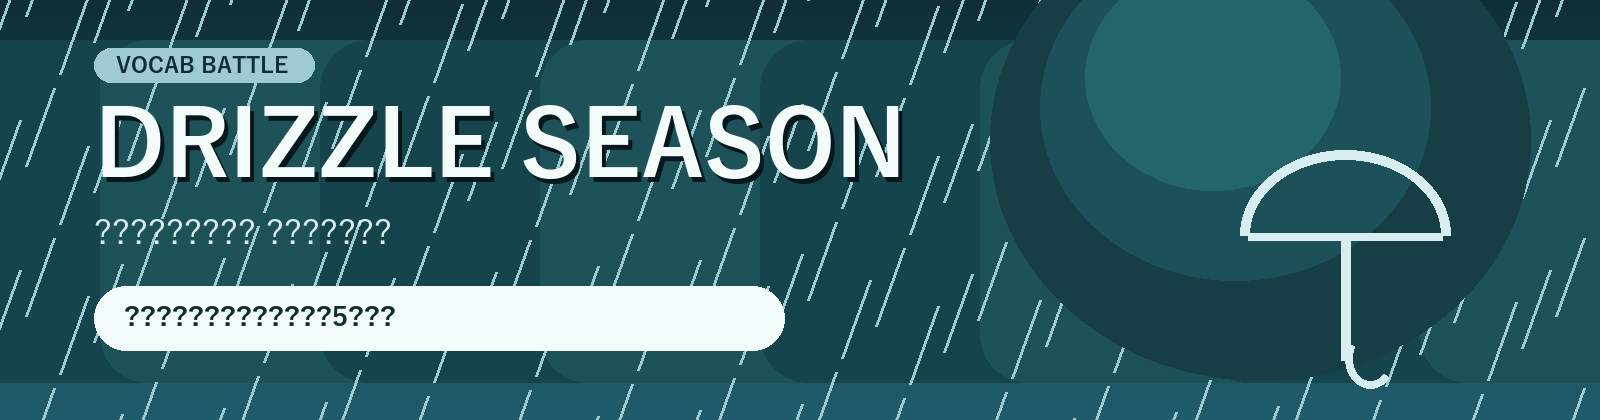
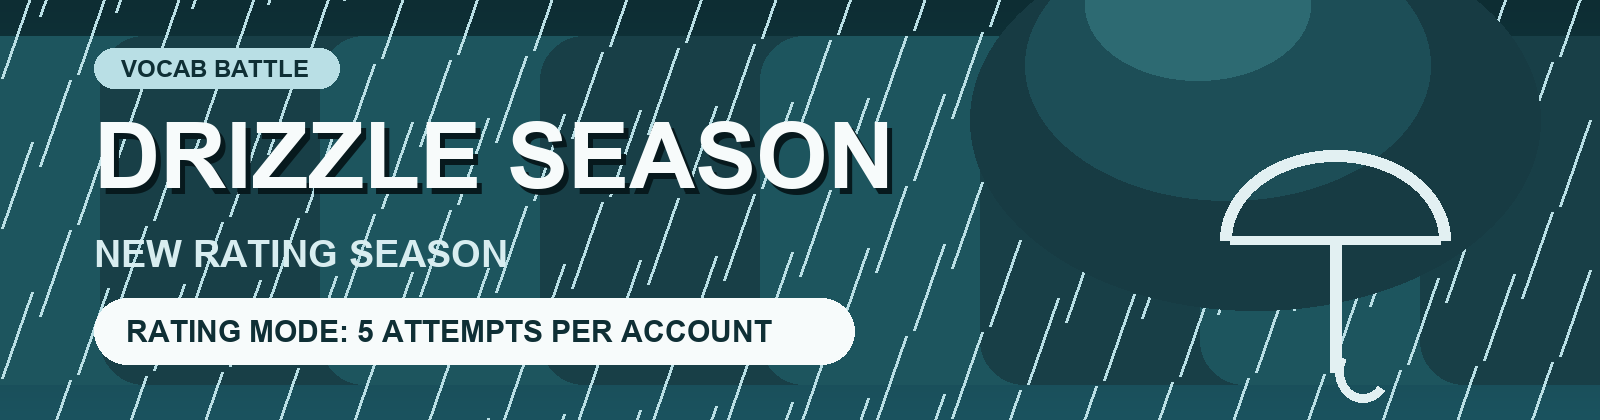
Add files via upload

diff --git a/index.html b/index.html
@@ -20,7 +20,7 @@
     </header>
 
     <section class="season-banner" aria-label="現在のシーズン">
-      <img src="assets/drizzle-season.png" alt="Drizzle Season 英単語バトルレート 新シーズン開幕 ガチモードは同一アカウント5回まで" />
+      <img src="assets/drizzle-season.png" alt="Drizzle Season new rating season. Rating mode is limited to five attempts per account." />
     </section>
 
     <section class="notice-banner" aria-label="利用者への通知">
